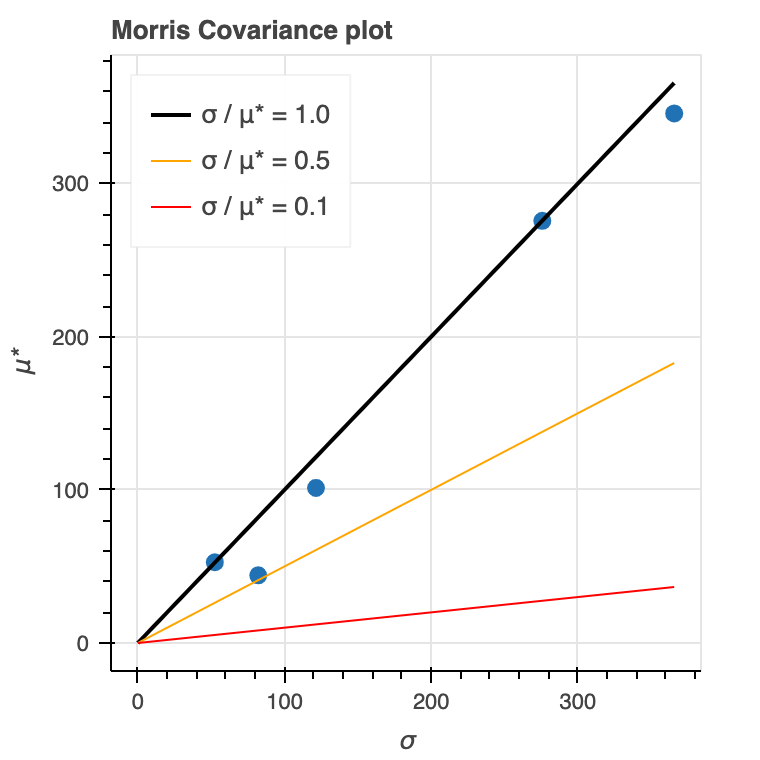
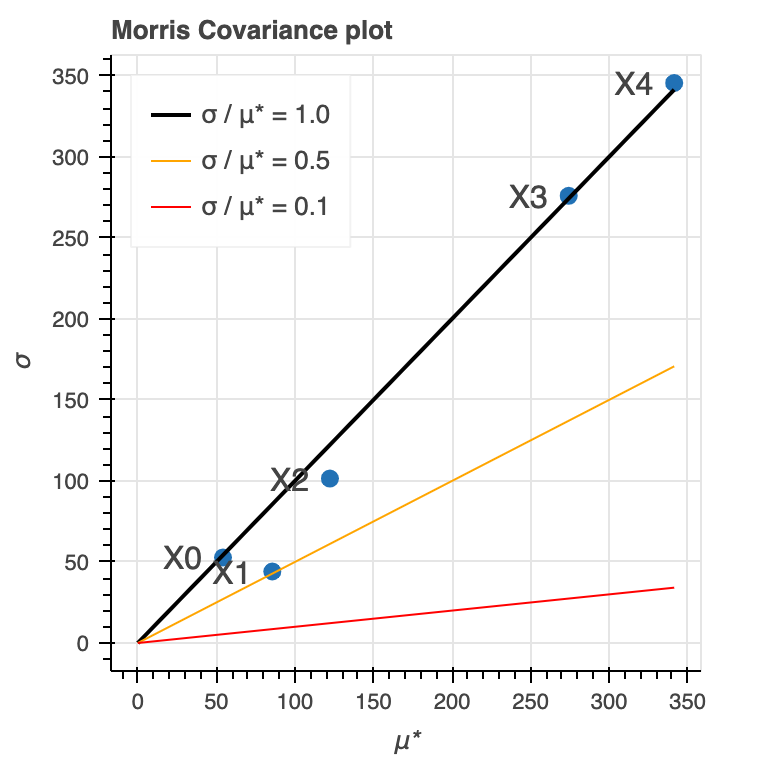
Added RF importanes to GSAreport

diff --git a/src/template/index.html b/src/template/index.html
@@ -160,6 +160,7 @@
                                 <div class="card-body">
                                     #EXPERIMENT_REPORT#
                                     <br/>
+                                    <div class="col-sm-12 col-md-12 col-print-12">#RF_DIV#</div>
                                     <hr>
                                     <a href="#" class="card-link" onclick="printDivContent()">Print report</a>
                                 </div>
@@ -214,7 +215,6 @@
                                           Points highlighted are the parameters with the highest mu_star and these are also shown below with the confidence of the algorithm.
                                         </div>
                                         <div class="col-sm-12 col-md-12 col-print-12">#MORRIS1#</div>
-                                        
                                     </div>
     
                                 </div>
@@ -414,6 +414,7 @@
     #FAST_SCRIPT#
     #PAWN_SCRIPT#
     #SURFACE_SCRIPT#
+    #RF_SCRIPT#
 </body>
 
 </html>

diff --git a/src/GSAreport.py b/src/GSAreport.py
@@ -59,6 +59,7 @@ from sklearn.model_selection import cross_val_score
 import shutil
 import textwrap
 import json
+import pandas as pd
 from datetime import datetime
 
 class SAReport():
@@ -76,11 +77,12 @@ class SAReport():
             x_morris.csv, y_morris.csv and 
             x_sobol.csv, y_sobol.csv.  
             At least one of these file pairs should be present.
-        model_samples (int): The number of samples to generated using the Random Forest model.
+        model_samples (int): The number of samples (*dim) generated using the Random Forest model.
+        num_levels (int): The number of levels for the Morris method (default to 4).
         seed (int): random seed.
     """
 
-    def __init__(self, problem, top=20, name="SA experiment", output_dir="output/", data_dir="data/", model_samples=1000, seed=42):
+    def __init__(self, problem, top=20, name="SA experiment", output_dir="output/", data_dir="data/", model_samples=1000, num_levels=4, seed=42):
         if top > problem['num_vars']:
             top = problem['num_vars']
         self.problem = problem
@@ -90,12 +92,13 @@ class SAReport():
         self.lhs = False
         self.sobol = False
         self.morris = False
+        self.num_levels = num_levels
         self.output_dir = output_dir
         self.data_dir = data_dir
         now = datetime.now()
         self.start_time = now.strftime("%Y-%m-%d %H:%M:%S")
         self.tag = now.strftime("%Y-%m-%dT%H-%M")
-        self.model_samples = model_samples
+        self.model_samples = model_samples * problem['num_vars']
         if not os.path.exists(output_dir):
             os.makedirs(output_dir)
         if not os.path.exists(data_dir):
@@ -109,7 +112,8 @@ class SAReport():
         """Generate samples for the different SA techniques.
 
         Args:
-            sample_size (int): The number of samples to generate for each design of experiments.
+            sample_size (int): The number of base samples (per dimension) to generate for each design of experiments.
+                Note that for Morris sample_size * (dim+1) and for Sobol sample_size * (dim+2) are generated.
 
         Returns:
             list: A list containing the 3 design of experiments (3 times sample_size samples).
@@ -120,7 +124,7 @@ class SAReport():
                 $ report = SAReport(problem, "Test problem")
                 $ lhs,morris,sobol = report.generateSamples(500)
         """
-        self.x_lhs = latin.sample(self.problem, sample_size, seed=self.seed)
+        self.x_lhs = latin.sample(self.problem, sample_size * problem['num_vars'], seed=self.seed)
         self.x_morris = sample(self.problem, sample_size, seed=self.seed)
         self.x_sobol = saltelli.sample(self.problem, sample_size)
         return (self.x_lhs, self.x_morris, self.x_sobol)
@@ -212,14 +216,22 @@ class SAReport():
     def analyse(self):
         '''Perform the SA analysis steps and generate the report.
         '''
-
+        if (self.model):
+            importances = self.regr.feature_importances_
+            feature_rank = np.argsort(importances)[::-1]
+            surface_script, surface_div = self._surface_plot(feature_rank[0], feature_rank[1])
+            rf_script, rf_div = self._model_plot()
+        else:
+            surface_div = ""
+            surface_script = ""
+            rf_script, rf_div = "", ""
         if (self.lhs):
             lhs_scripts, lhs_divs = self._lhs_methods()
         else:
             lhs_scripts = ["", "","", ""]
             lhs_divs = ["", "","", ""]
         if (self.morris):
-            morris_scripts, morris_divs, df = self._morris_plt(num_levels=4)
+            morris_scripts, morris_divs, df = self._morris_plt()
         else:
             morris_scripts = ["", ""]
             morris_divs = ["", ""]
@@ -228,11 +240,7 @@ class SAReport():
         else:
             sobol_scripts = ["", ""]
             sobol_divs = ["", ""]
-        if (self.model):
-            surface_script, surface_div = self._surface_plot(df.index[0], df.index[1])
-        else:
-            surface_div = ""
-            surface_script = ""
+        
 
         #copy js/css/images template files
         src = os.path.join('template','includes')
@@ -263,6 +271,9 @@ class SAReport():
 
         html_template = html_template.replace("#SURFACE#", surface_div)
         html_template = html_template.replace("#SURFACETEXT#", surface_text)
+
+        html_template = html_template.replace("#RF_DIV#", rf_div)
+        html_template = html_template.replace("#RF_SCRIPT#", rf_script)
         
         html_template = html_template.replace("#SURFACE_SCRIPT#", surface_script)
 
@@ -350,13 +361,33 @@ class SAReport():
 
         return ([script1,script2,script3,script4], [div1,div2,div3,div4])
         
+    def _model_plot(self):
+        #Generate the random forest feature importance plot
 
-    def _morris_plt(self, num_levels=4):
+        importances = self.regr.feature_importances_
+        std = np.std([tree.feature_importances_ for tree in self.regr.estimators_], axis=0)
+
+        ranks = np.argsort(importances)[::-1]
+        top_importances = importances[ranks[:self.top]]
+        top_std = std[ranks[:self.top]]
+        feature_names = np.array(self.problem['names'])[ranks[:self.top]]
+        dftop = pd.DataFrame(data={'S1':top_importances, 'std':top_std, 'index':feature_names})
+        plot_width = max(400,20*self.top)
+        plot_height = 150
+        if (self.top < 10):
+            plot_height = 100
+        p = figure(x_range=dftop['index'], plot_height=plot_height, plot_width=plot_width, toolbar_location="right", title="RF feature importances")
+        p = ip.plot_errorbar(dftop, p, base_col="S1", error_col="std", label_x="Importance", label_y="Std.")
+        p.sizing_mode = "scale_width"
+        return components(p)
+
+    def _morris_plt(self):
+        #FIX sigma mu on plot -- add labels
         X = self.x_morris
         y =  self.y_morris
         top = self.top
         Si = morris.analyze(problem, X, y, conf_level=0.95,
-                        print_to_console=False, num_levels=num_levels)
+                        print_to_console=False, num_levels=self.num_levels)
         df = Si.to_df()
         df.reset_index(inplace=True)
         df = df.sort_values(by=['mu_star'], ascending=False)
@@ -506,7 +537,7 @@ else:
         }
     fun, opt = bn.instantiate(3, iinstance=1)
     report = SAReport(problem, top=5, name="F3", output_dir=output_dir, data_dir=data_dir, model_samples=5000)
-    X_lhs, X_morris, X_sobol = report.generateSamples(1000)
+    X_lhs, X_morris, X_sobol = report.generateSamples(200)
     
     if not os.path.exists(f"{data_dir}/y_lhs.csv"):
         report.storeSamples()

diff --git a/src/plotting/interactive_plots.py b/src/plotting/interactive_plots.py
@@ -22,7 +22,7 @@ from bokeh.models.widgets import Panel, Tabs
 from bokeh.plotting import show
 from bokeh.io import curdoc
 from ipywidgets import BoundedFloatText, IntText, Checkbox, SelectMultiple
-from bokeh.models import Whisker
+from bokeh.models import Whisker, LabelSet
 from bokeh.plotting import figure, ColumnDataSource
 from .plotting import make_plot, make_second_order_heatmap
 from bokeh.transform import factor_cmap
@@ -64,6 +64,7 @@ def plot_errorbar_morris(df, p, base_col="mu_star", error_col="mu_star_conf", to
     
     source = ColumnDataSource(data=dict(groups=df['index'], color=color_list, counts=df[base_col], muconf=df[error_col], sigma=df['sigma'], upper=upper, lower=lower))
     p.vbar(x='groups', top='counts', width=0.9, source=source, line_color='white', color='color')
+
 
     p.add_layout(
         Whisker(source=source, base="groups", upper="upper", lower="lower", level="overlay")
@@ -170,8 +171,11 @@ def interactive_covariance_plot(df, top=10):
     dftop = df.iloc[:top]
     sourceTop = ColumnDataSource(data=dict(x=dftop['mu_star'].values, y=dftop['sigma'].values, desc=dftop['index'].values))
     p.circle('x', 'y', size=8, color="#2171b5", source=sourceTop)
-    
 
+    #labels = LabelSet(x='x', y='y', text='desc',
+    #          x_offset=0, y_offset=0, source=sourceTop, render_mode='canvas')
+    
+    #p.add_layout(labels)
     x_axis_bounds = np.array([0, max(dftop['mu_star'].values)+0.002])
     p.line(x_axis_bounds, x_axis_bounds, legend_label="σ / μ* = 1.0", line_width=2, color="black")
     p.line(x_axis_bounds, 0.5*x_axis_bounds, legend_label="σ / μ* = 0.5", line_width=1, color="orange")
